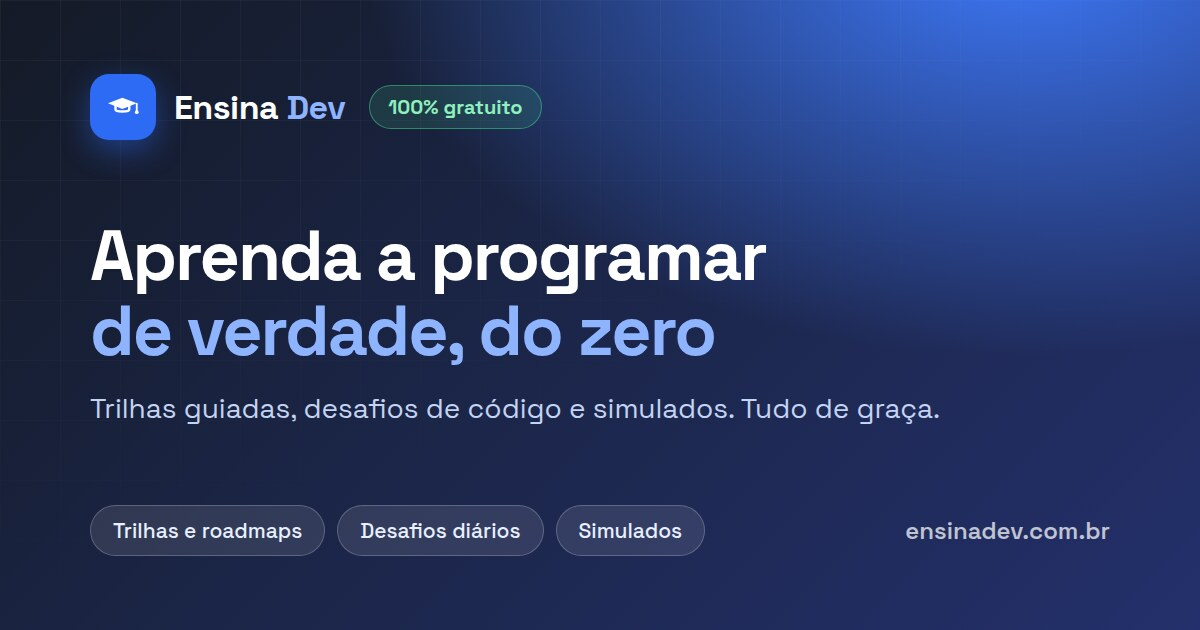
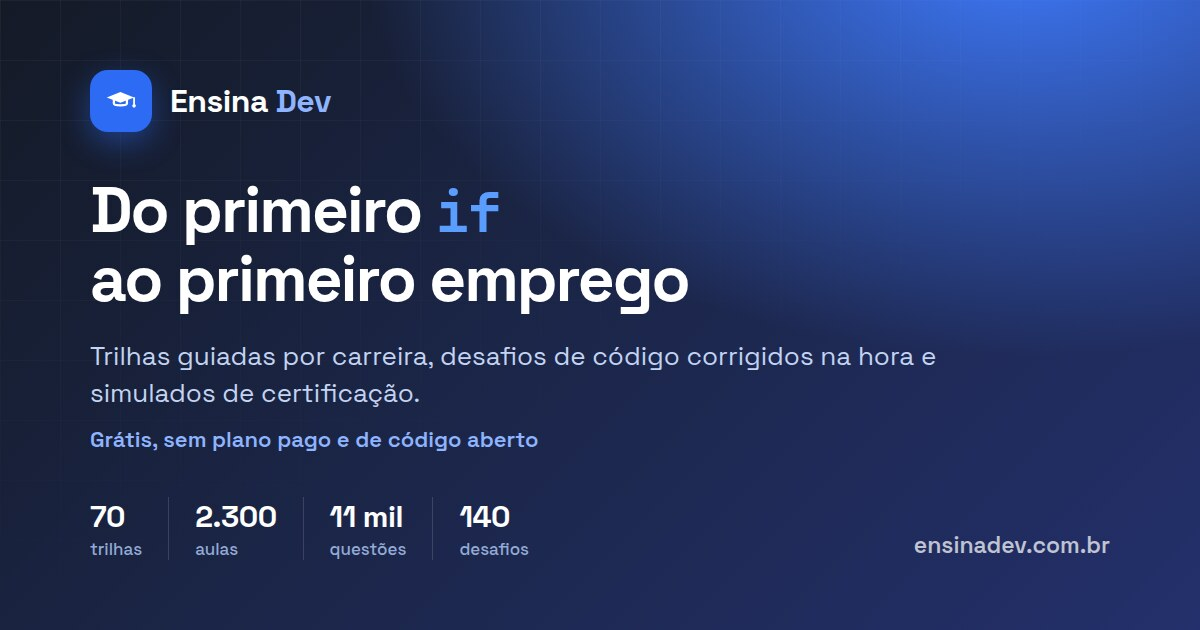
feat: arte final do preview com a proposta de valor e os números

diff --git a/frontend/index.html b/frontend/index.html
@@ -6,10 +6,10 @@
     <meta name="viewport" content="width=device-width, initial-scale=1.0" />
     <meta name="theme-color" content="#2d6bf5" />
 
-    <title>Ensina Dev | Aprenda a programar de graça, do zero</title>
+    <title>Ensina Dev | Do primeiro if ao primeiro emprego</title>
     <meta
       name="description"
-      content="Plataforma gratuita para aprender programação: trilhas guiadas, desafios de código com correção automática e simulados de certificação, em português."
+      content="Trilhas guiadas por carreira, desafios de código corrigidos na hora e simulados de certificação. Grátis, sem plano pago e de código aberto."
     />
     <link rel="canonical" href="https://ensinadev.com.br/" />
 
@@ -18,10 +18,10 @@
     <meta property="og:site_name" content="Ensina Dev" />
     <meta property="og:locale" content="pt_BR" />
     <meta property="og:url" content="https://ensinadev.com.br/" />
-    <meta property="og:title" content="Ensina Dev | Aprenda a programar de graça, do zero" />
+    <meta property="og:title" content="Ensina Dev | Do primeiro if ao primeiro emprego" />
     <meta
       property="og:description"
-      content="Plataforma gratuita para aprender programação: trilhas guiadas, desafios de código com correção automática e simulados de certificação, em português."
+      content="Trilhas guiadas por carreira, desafios de código corrigidos na hora e simulados de certificação. Grátis, sem plano pago e de código aberto."
     />
     <meta property="og:image" content="https://ensinadev.com.br/og.jpg" />
     <meta property="og:image:type" content="image/jpeg" />
@@ -29,14 +29,14 @@
     <meta property="og:image:height" content="630" />
     <meta
       property="og:image:alt"
-      content="Ensina Dev, 100% gratuito: aprenda a programar de verdade, do zero. Trilhas, desafios e simulados."
+      content="Ensina Dev: do primeiro if ao primeiro emprego. 70 trilhas, 2.300 aulas, 11 mil questões e 140 desafios, de graça."
     />
 
     <meta name="twitter:card" content="summary_large_image" />
-    <meta name="twitter:title" content="Ensina Dev | Aprenda a programar de graça, do zero" />
+    <meta name="twitter:title" content="Ensina Dev | Do primeiro if ao primeiro emprego" />
     <meta
       name="twitter:description"
-      content="Plataforma gratuita para aprender programação: trilhas guiadas, desafios de código com correção automática e simulados de certificação, em português."
+      content="Trilhas guiadas por carreira, desafios de código corrigidos na hora e simulados de certificação. Grátis, sem plano pago e de código aberto."
     />
     <meta name="twitter:image" content="https://ensinadev.com.br/og.jpg" />
   </head>
